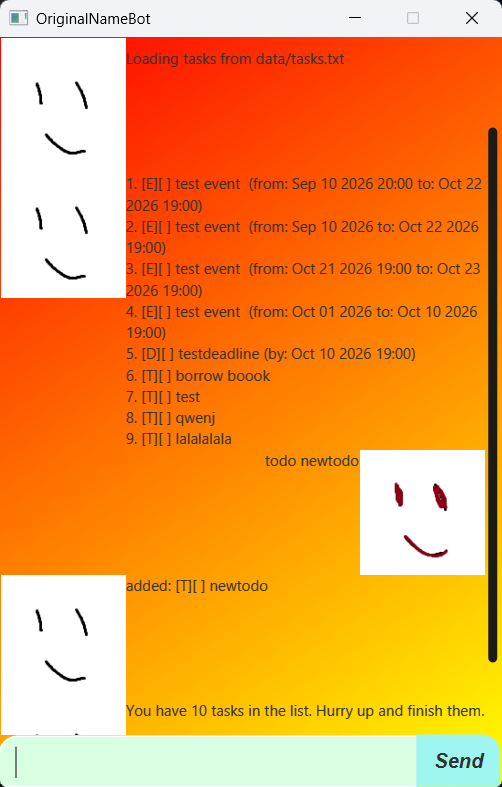
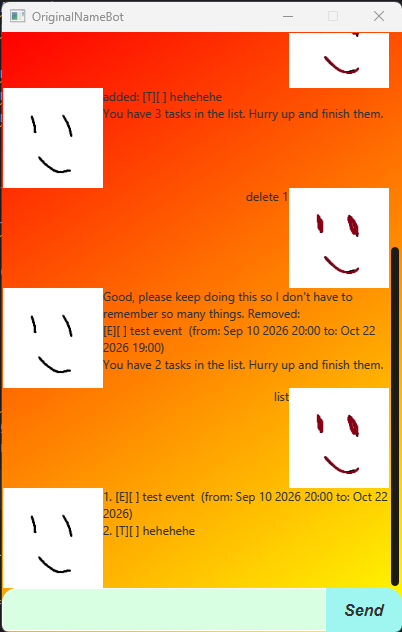
Compress mark/unmark task into one message

Changed region(s): [[0.0, 0.0, 1.0, 1.0]]

diff --git a/src/main/java/originalNameBot/tasks/Tasklist.java b/src/main/java/originalNameBot/tasks/Tasklist.java
@@ -40,8 +40,8 @@ public class Tasklist {
         try {
             Task task = tasks.get(i - 1);
             task.markDone();
-            Main.getMainWindow().sendBotMessage(String.valueOf(BotLines.TASK_DONE));
-            Main.getMainWindow().sendBotMessage(task.toString());
+            String output = BotLines.TASK_DELETED + "\n" + task;
+            Main.getMainWindow().sendBotMessage(output);
         } catch (IndexOutOfBoundsException e) {
             Main.getMainWindow().sendBotMessage(String.valueOf(BotLines.NO_SUCH_TASK_AT_INDEX));
         }
@@ -58,7 +58,8 @@ public class Tasklist {
         try {
             Task task = tasks.get(i - 1);
             task.markNotDone();
-            Main.getMainWindow().sendBotMessage(String.valueOf(BotLines.TASK_UNMARKED));
+            String output = BotLines.TASK_UNMARKED + "\n" + task;
+            Main.getMainWindow().sendBotMessage(output);
         } catch (IndexOutOfBoundsException e) {
             Main.getMainWindow().sendBotMessage(String.valueOf(BotLines.NO_SUCH_TASK_AT_INDEX));
         }

diff --git a/src/main/java/originalNameBot/bot/BotLines.java b/src/main/java/originalNameBot/bot/BotLines.java
@@ -49,7 +49,7 @@ public enum BotLines {
     TASK_UNMARKED {
         @Override
         public String toString() {
-            return "Why?";
+            return "Why? Unmarked: ";
         }
     },
     NO_TASKS {
